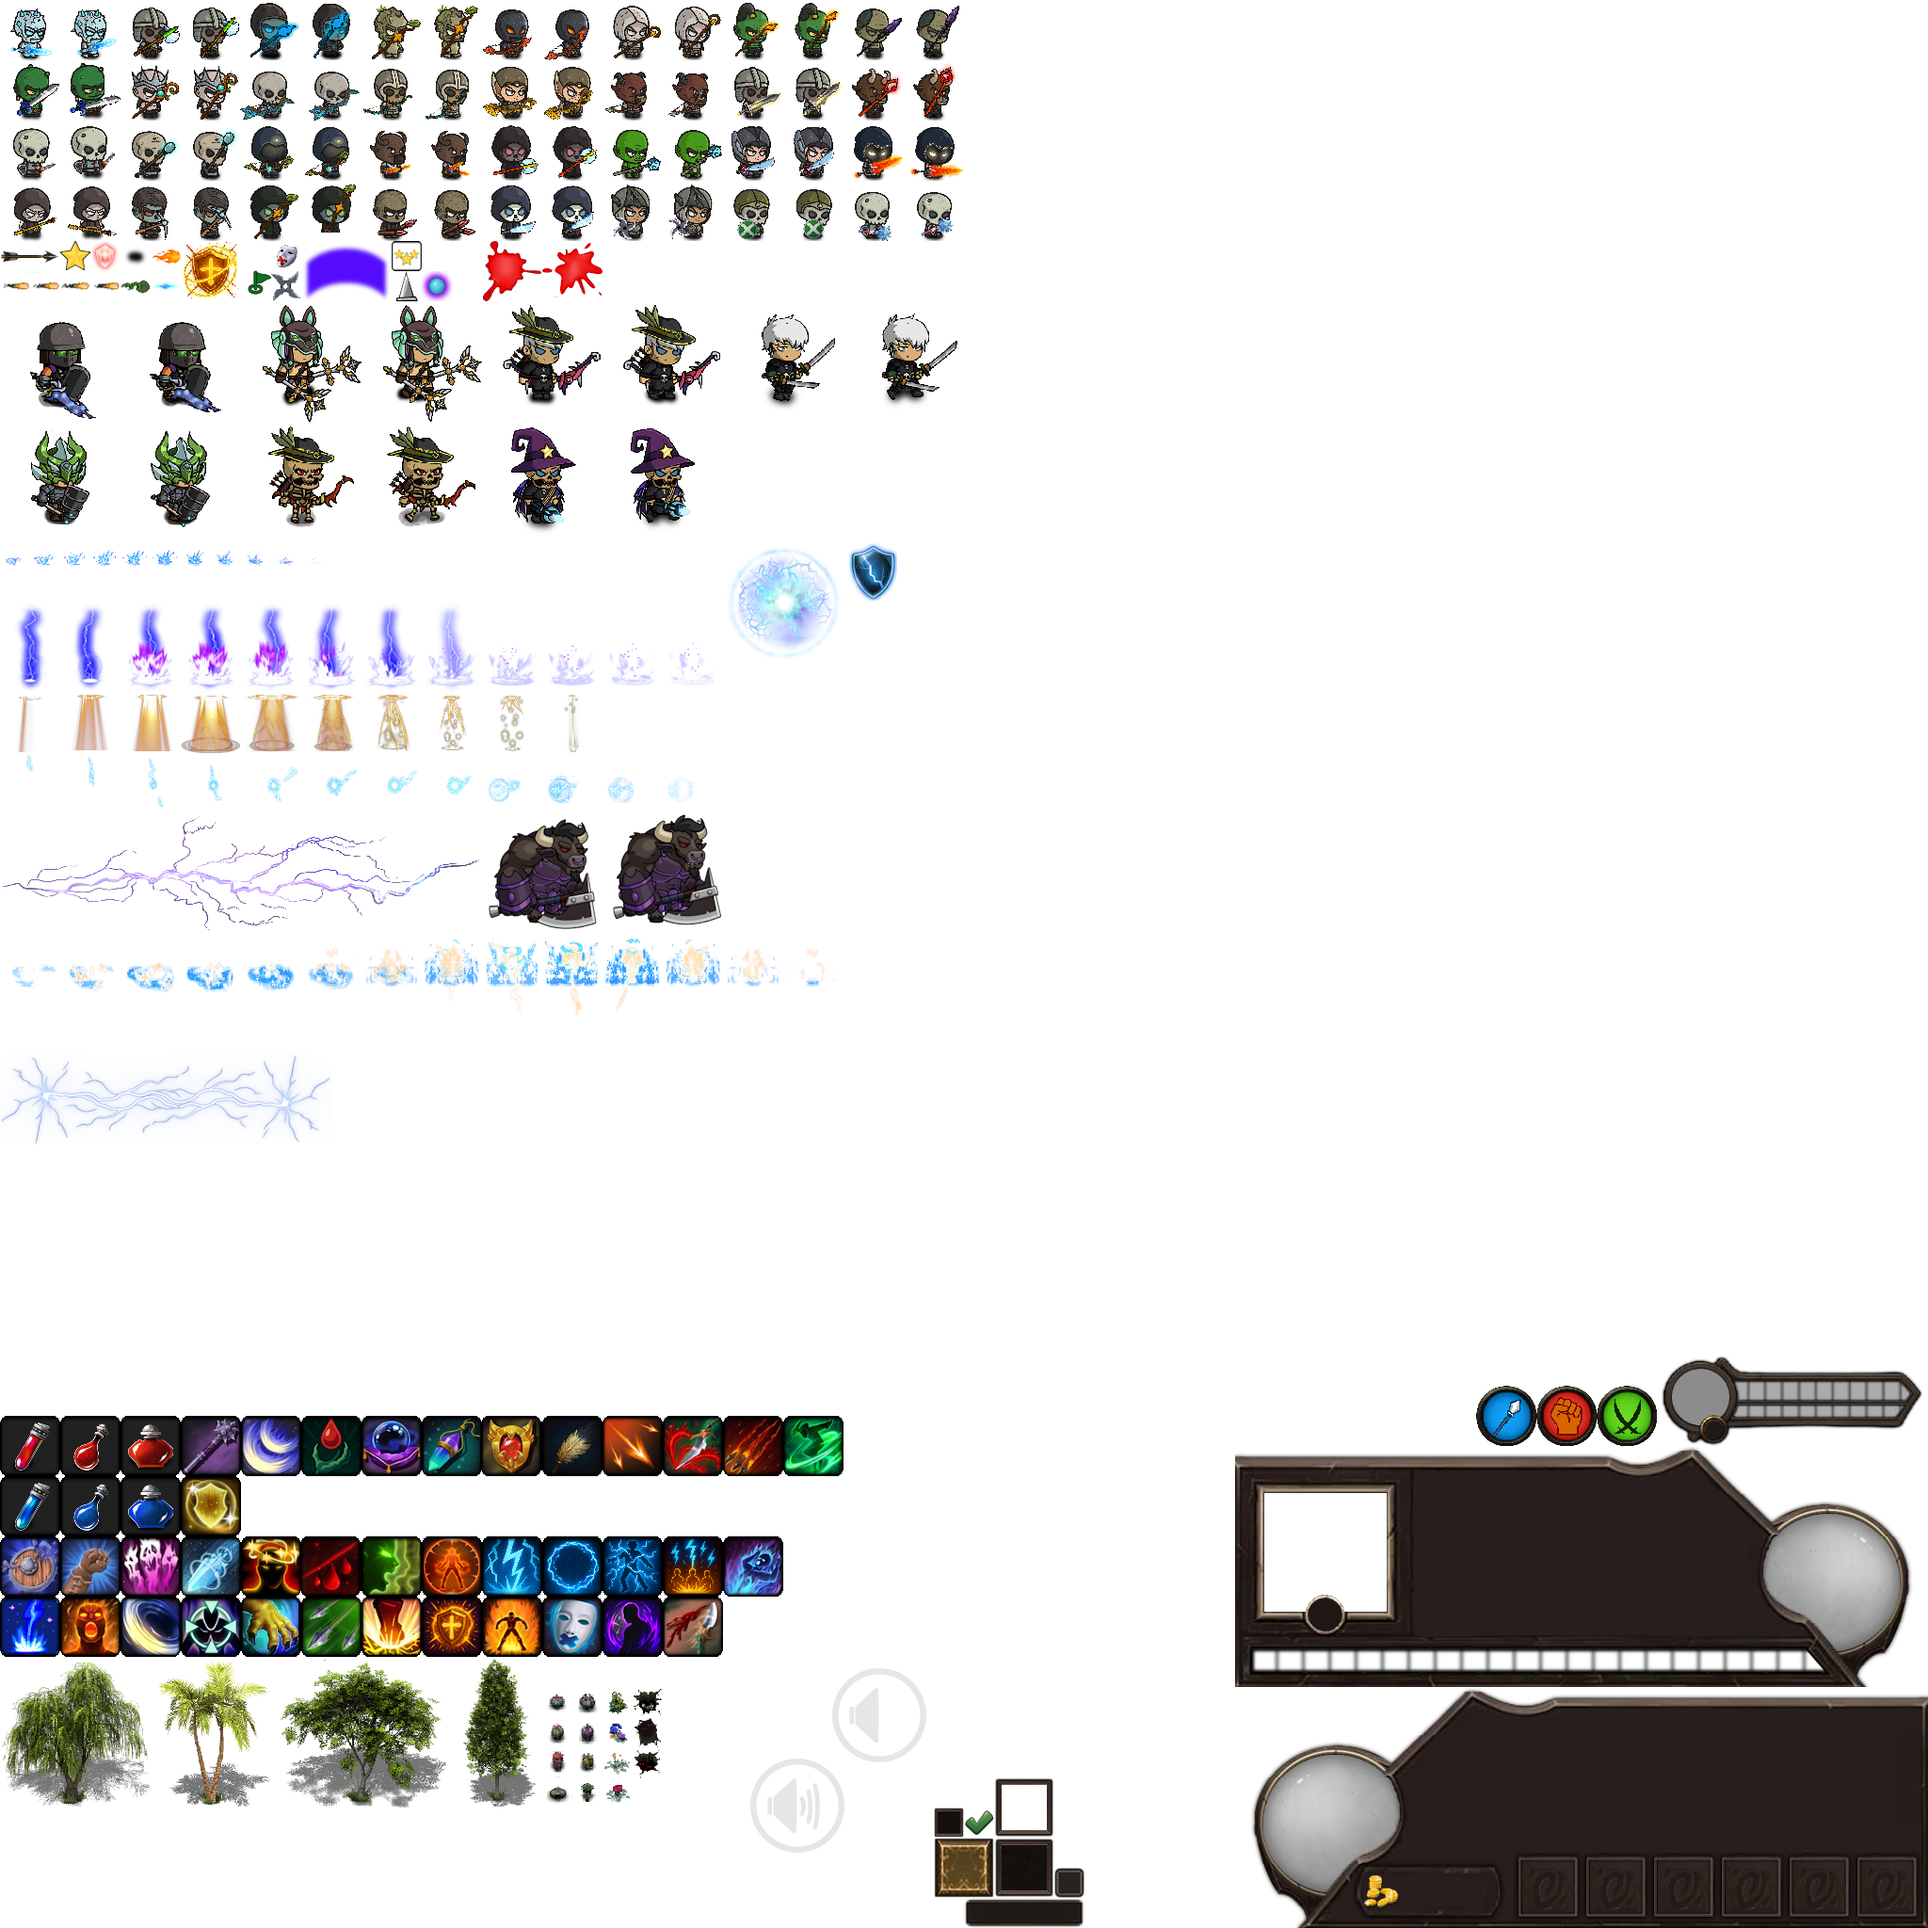
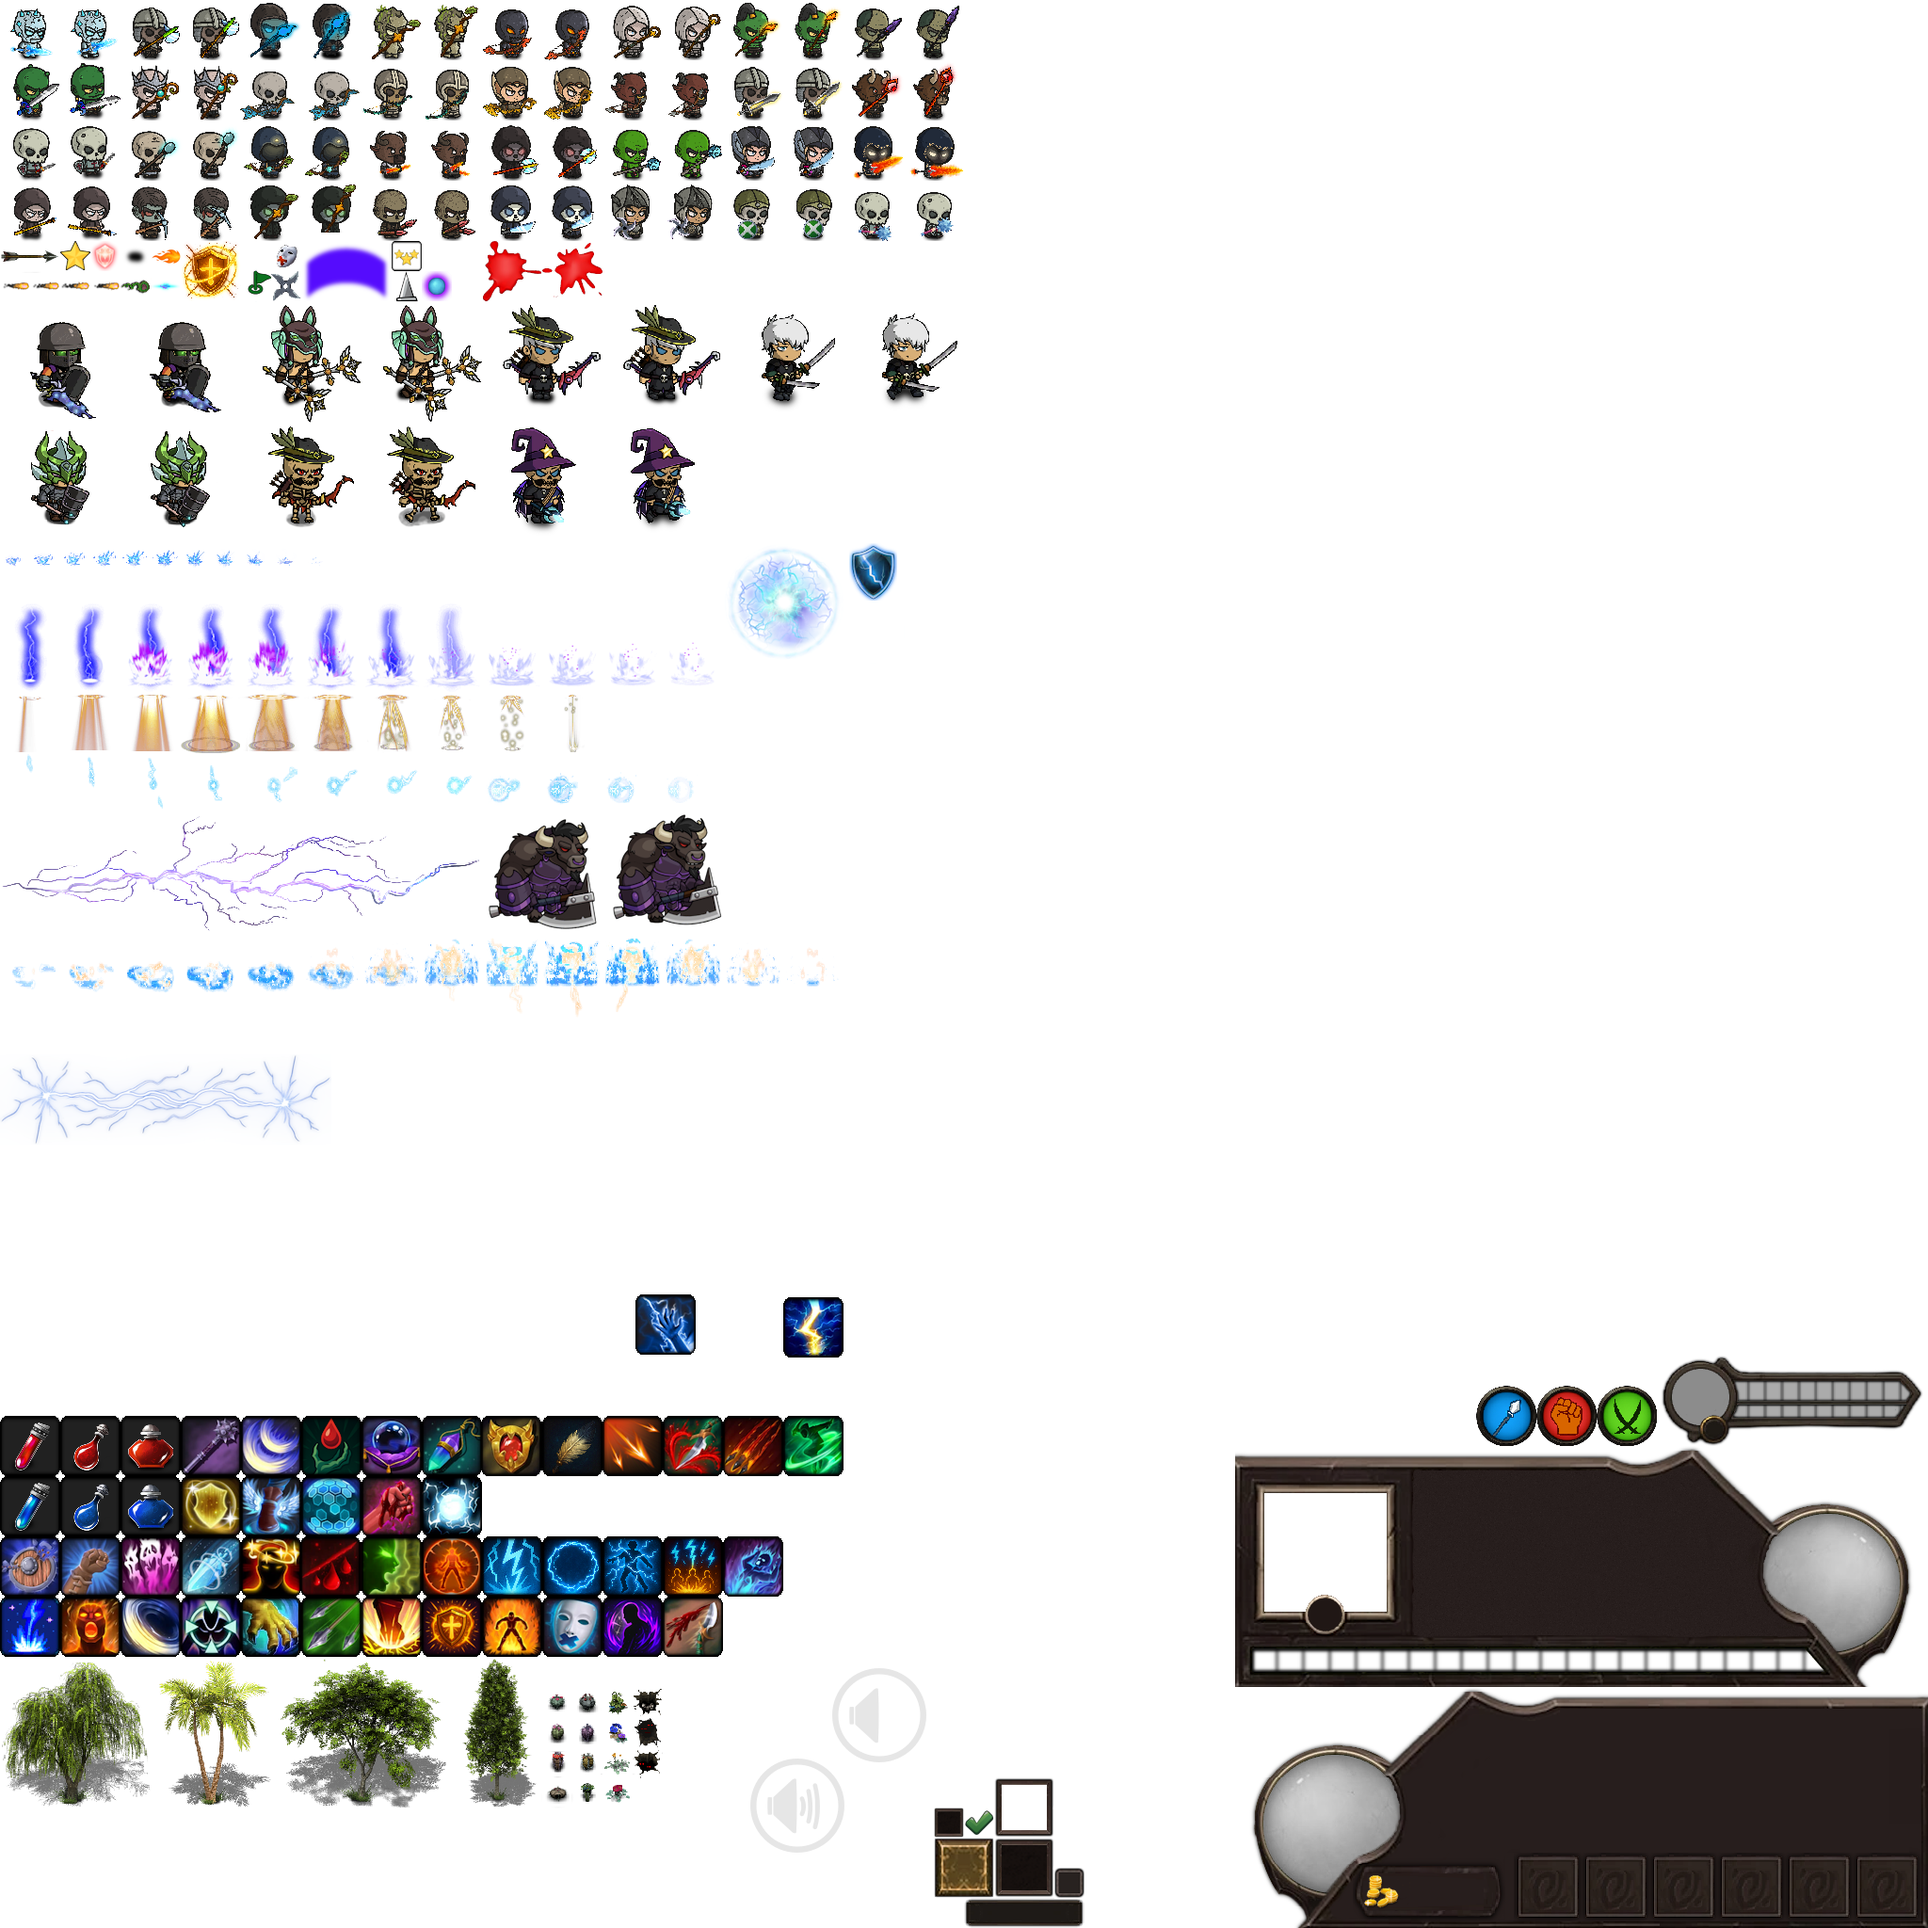
- ✅ Added an item that grants +30% Movement Speed, +30% Attack Speed, and +30 Strength, Agility, and Intelligence. - ✅ Added an item that grants +30% Physical and Magical Defense and +1000 HP. - ✅ Added an item that grants +40% Lifesteal, +20% chance to Stun, and +200 Physical & Magical Attack. - ✅ 

Changed region(s): [[0.125, 0.75, 0.25, 0.8125], [0.3125, 0.6562, 0.375, 0.7188], [0.4062, 0.6562, 0.4375, 0.7188]]

diff --git a/TODO.md b/TODO.md
@@ -5,11 +5,8 @@
 📍 [Go to Roadmap](./roadmap.md)  
 📝 [Go to Changelog](./changelog.md)
 
-- 🔵 Crear escena inicial
+- Desarrollar historia y mostrar diálogos en diferentes momentos
 - Al finalizar las rondas, el moomoo se revela en contra del jugador. Agregar efectos en el suelo como rajaduras con lava. Hacer caer meteoritos desde el cielo, etc.
-- Crear ronda numero 9, con un enemigo que lanza cuchillas y otro que lanza piedras
-- Desarrollar historia
-- Agregar item que brinda +30% de MS, +20% de AS y +10 de fza/agi/int
 - Agregar item que brinda un 15% de chances de disparar una rafaga de rayos a 5 enemigos cercanos. El daño de cada rayo es igual al 50% de la inteligencia total.
 - Agregar afecto de nubes
 - Agregar efecto de lluvia y rayos
@@ -20,6 +17,7 @@
 - Agregar item que brinda un +30% de ataque mágico y físico y algo mas
 - Generar skill/item que da chances de invocar esqueletos ante cada ataque
 
+- Crear ronda numero 9, con un enemigo que lanza cuchillas y otro que lanza piedras
 - Agregar un item que brinda daño splash a todo alreadedor del target (es diferente al cleave)
 - Implementar sistema de craft de items
 - Regular exp por ronda (deberiamos permitir avanzar 2 niveles por ronda aprox)

diff --git a/changelog.md b/changelog.md
@@ -2,6 +2,11 @@
 
 📆 xx/07/2025
 
+- ✅ Added an item that grants +30% Movement Speed, +30% Attack Speed, and +30 Strength, Agility, and Intelligence.
+- ✅ Added an item that grants +30% Physical and Magical Defense and +1000 HP.
+- ✅ Added an item that grants +40% Lifesteal, +20% chance to Stun, and +200 Physical & Magical Attack.
+- ✅ Added an item that grants +100 Intelligence and +2000 HP, with a 20% chance when hit by a physical attack to unleash 5 lightning bolts at random enemies within range, each dealing magic damage based on Intelligence.
+- ✅ Crear escena inicial + Selección de lenguaje + Música
 - ✅ Allow enemies to use items
 - ✅ Every 2 normal rounds, generate an extra special round with 4 bosses, which have extra attributes and 4 random skills.
 - ✅ Add Ghostplate item that grants +20% physical and magical defense, and 20% evasion.
